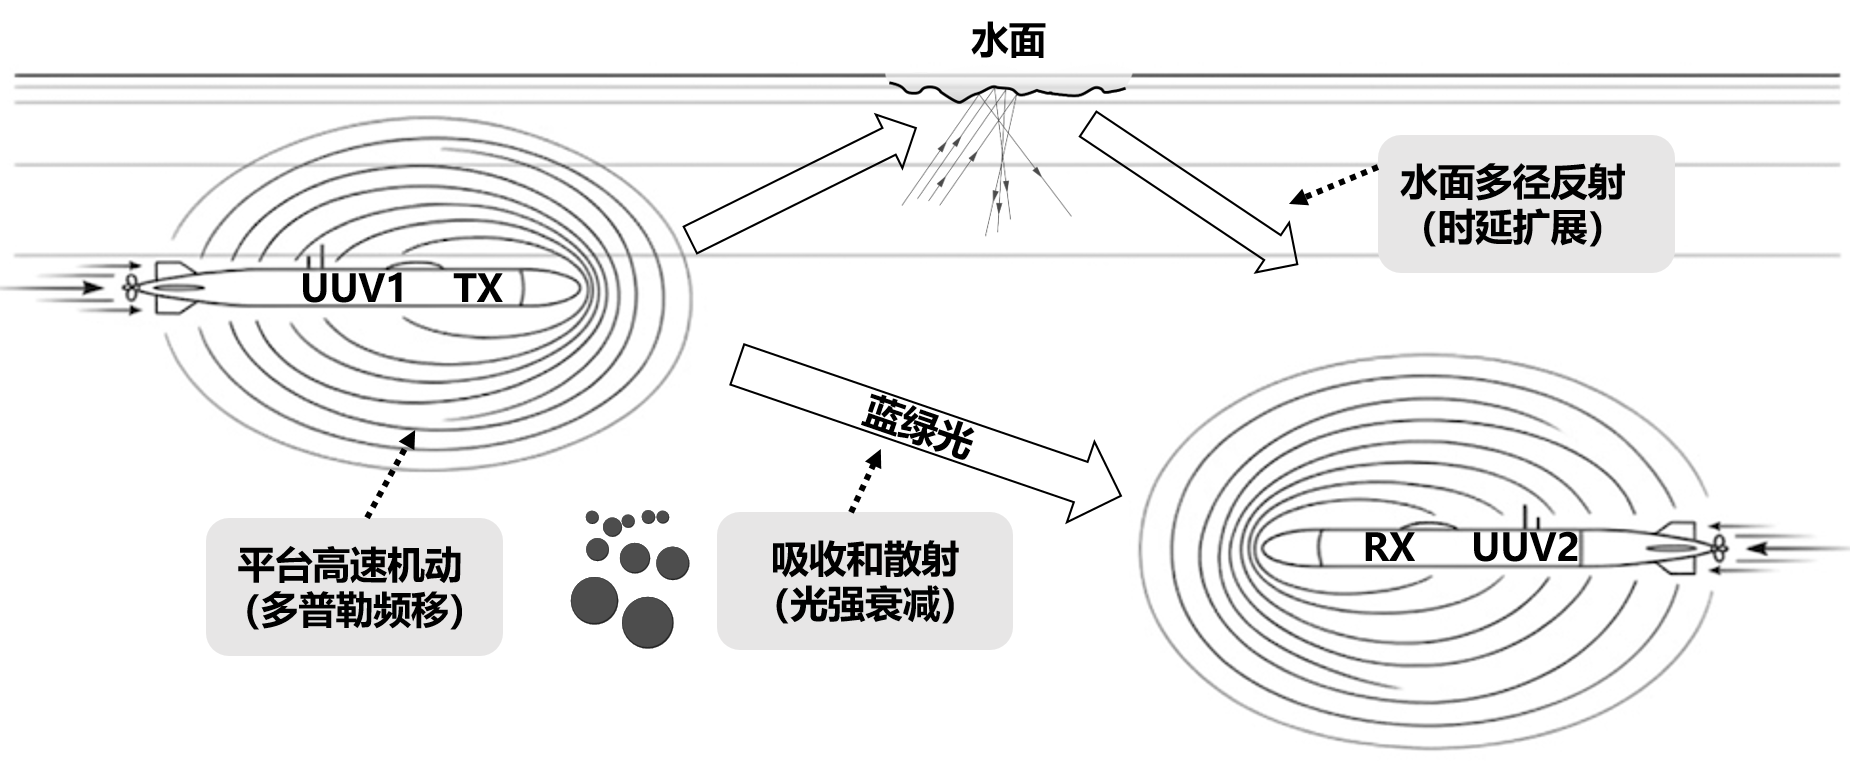
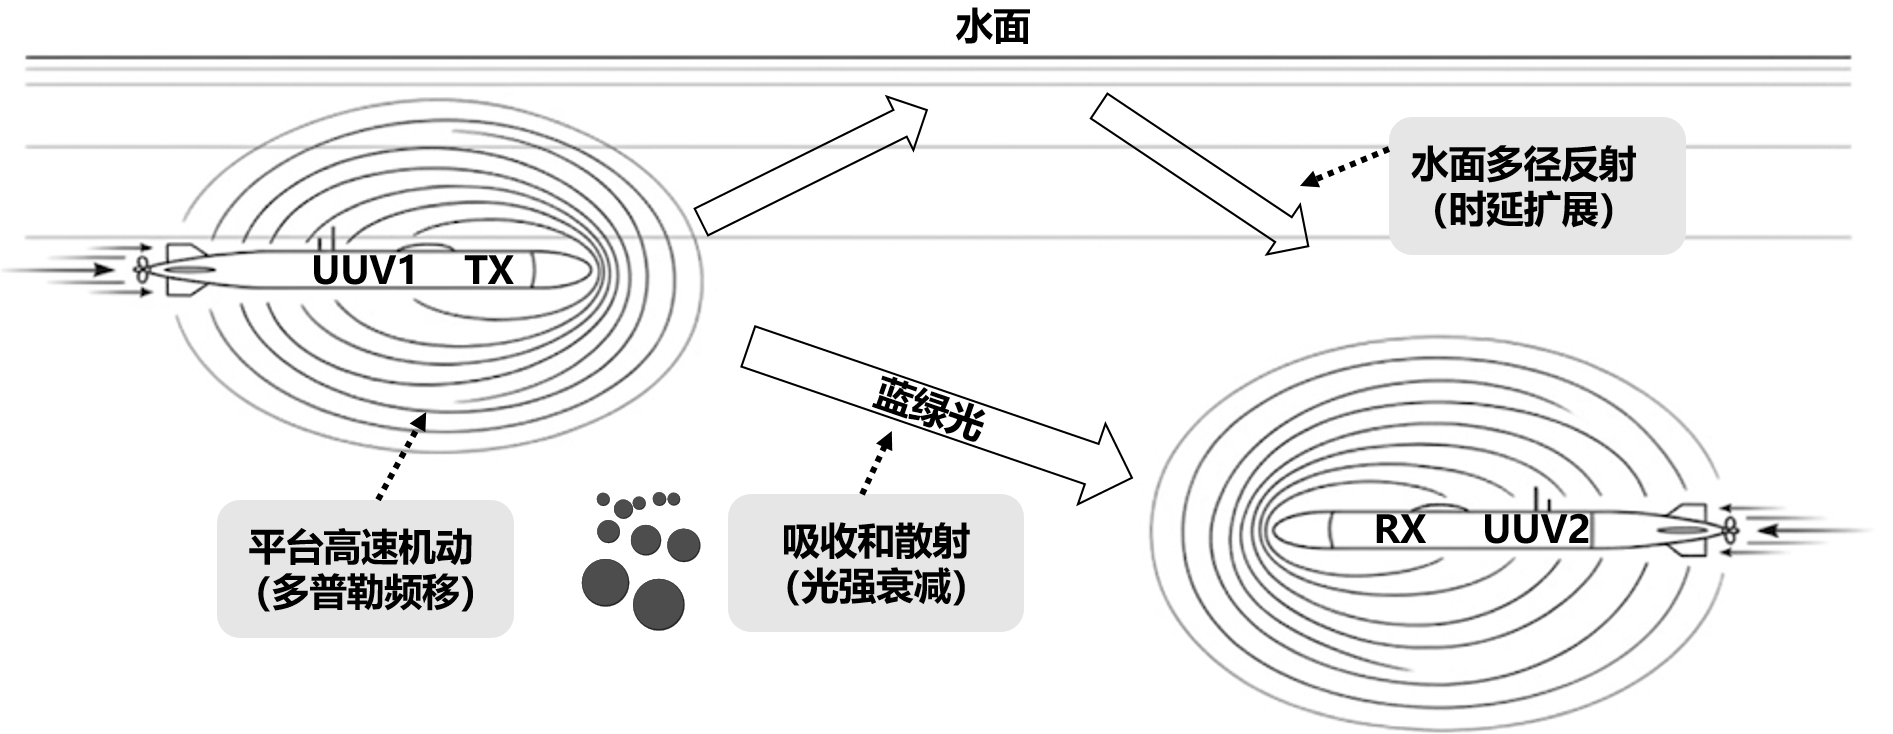
Edit_all_by_record

diff --git a/chapters/chapter5.tex b/chapters/chapter5.tex
@@ -16,14 +16,14 @@
 
 仿真结果表明，在归一化多普勒频移从0增长至0.2的宽范围条件下，所提出的AFDM-IM系统始终保持较好的误码性能；相比传统OFDM-IM方案，其抗多普勒能力和抗频偏能力均得到明显提升。同时，所提出的盲补偿方法能够有效抑制残余频偏引起的能量泄露现象，在不增加额外导频开销的情况下实现可靠检测，验证了方案在高动态复杂水下环境中的应用潜力。
 
-总体而言，本文针对复杂水下环境中的两类典型通信场景，分别构建了面向低动态多径信道的ACO-AFDM方案以及面向高动态双选择性信道的AFDM-IM方案。两项研究均以AFDM波形为核心，通过结合不同接收架构和系统需求，实现了对多径衰落、多普勒扩展以及相位噪声等关键问题的针对性解决。研究结果表明，AFDM不仅能够有效提升系统的环境适应能力，而且具有良好的可扩展性和工程应用潜力。本文的工作为AFDM技术在水下无线光通信领域的进一步应用提供了理论基础和设计参考。
+总体而言，本文针对复杂水下环境中的两类典型通信场景，分别构建了面向低动态多径信道的ACO-AFDM方案以及面向高动态双选择性信道的AFDM-IM方案。两项研究均以AFDM波形为核心，通过结合不同接收架构和系统需求，实现了对多径衰落、多普勒扩展以及相位噪声等关键问题的针对性解决。研究结果表明，AFDM不仅能够有效提升系统的环境适应能力，而且具有良好的可扩展性和应用潜力。本文的工作为AFDM技术在水下无线光通信领域的进一步应用提供了理论基础和设计参考。
 
 \section{未来展望}
 \label{sec:future_work}
 
-虽然本文针对复杂水下环境中的AFDM无线光通信技术开展了较为系统的研究，并取得了一定成果，但相关研究仍主要基于理论分析与计算机仿真验证，距离实际工程应用仍存在进一步深入研究的空间。未来可从以下几个方面继续开展研究工作。
+虽然本文针对复杂水下环境中的AFDM无线光通信技术开展了较为系统的研究，并取得了一定成果，但相关研究仍主要基于理论分析与计算机仿真验证，距离实际应用仍存在进一步深入研究的空间。未来可从以下几个方面继续开展研究工作。
 
-在实验平台验证方面，后续可依托水下无线光通信实验系统开展端到端实物测试研究。通过在水槽环境、循环水环境以及开放水域环境中搭建实验链路，对本文提出的ACO-AFDM和AFDM-IM方案进行实际验证，进一步分析系统在真实水体中的性能表现。实验结果不仅能够验证理论模型与仿真结论的准确性，还能够为后续系统优化提供更加可靠的工程依据。
+在实验平台验证方面，后续可依托水下无线光通信实验系统开展端到端实物测试研究。通过在水槽环境、循环水环境以及开放水域环境中搭建实验链路，对本文提出的ACO-AFDM和AFDM-IM方案进行实际验证，进一步分析系统在真实水体中的性能表现。实验结果不仅能够验证理论模型与仿真结论的准确性，还能够为后续系统优化提供更加可靠的应用依据。
 
 在信道建模方面，在信道建模方面，未来可进一步建立更加符合实际应用场景的综合信道模型。本文主要考虑了散射、多径传播、多普勒扩展以及相位噪声等因素，而实际系统中还可能受到动态指向误差、平台振动、光束漂移、海洋湍流以及收发端失准等因素的影响。将这些因素统一纳入建模框架，有助于更加准确地描述真实水下光通信信道特性，并提高算法设计的实际适用性。
 

diff --git a/main.tex b/main.tex
@@ -72,8 +72,8 @@ verticalTitle = {面向复杂水下环境的ＡＦＤＭ无线光通信关键技
     %
     % --- 专业型 --- 
     degreeType = professional, 
-    industrialMentor = {王永合},  % 行业合作导师
-    industrialMentorEn = {Yonghe Wang},
+    industrialMentor = {叶方全高工},  % 行业合作导师
+    industrialMentorEn = {PSE.Fangquan Ye},
     degree = 电子信息硕士,  % 申请类别
     degreeEn = {Master of Electronic Information},
     major = 电子信息,  % 学位领域

diff --git a/misc/0_symbols.tex b/misc/0_symbols.tex
@@ -4,6 +4,7 @@
 %%
 
 \begin{symbols}
+  \item[BER] 误码率（Bit Error Rate）
   \item[UWOC] 水下无线光通信（Underwater Wireless Optical Communication）
   \item[AFDM] 仿射频分复用（Affine Frequency Division Multiplexing）
   \item[DAFT] 离散仿射傅里叶变换（Discrete Affine Fourier Transform）
@@ -23,5 +24,4 @@
   \item[$\alpha_p$] 第 $p$ 条传播路径的归一化多普勒频移
   \item[$\phi\lbrack q\rbrack$] 第 $q$ 个离散时刻的相位噪声
   \item[$\Delta\nu$] 相干系统发射端与本振激光器的组合线宽
-  \item[BER] 误码率（Bit Error Rate）
 \end{symbols}